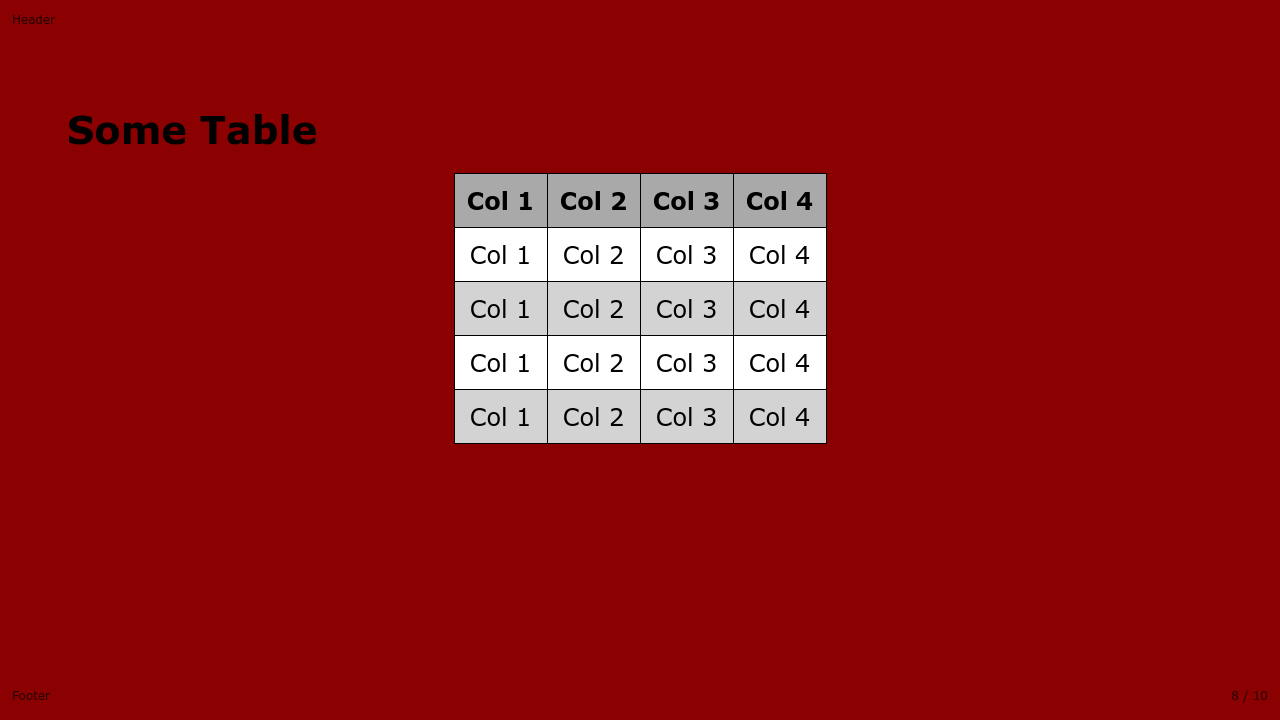
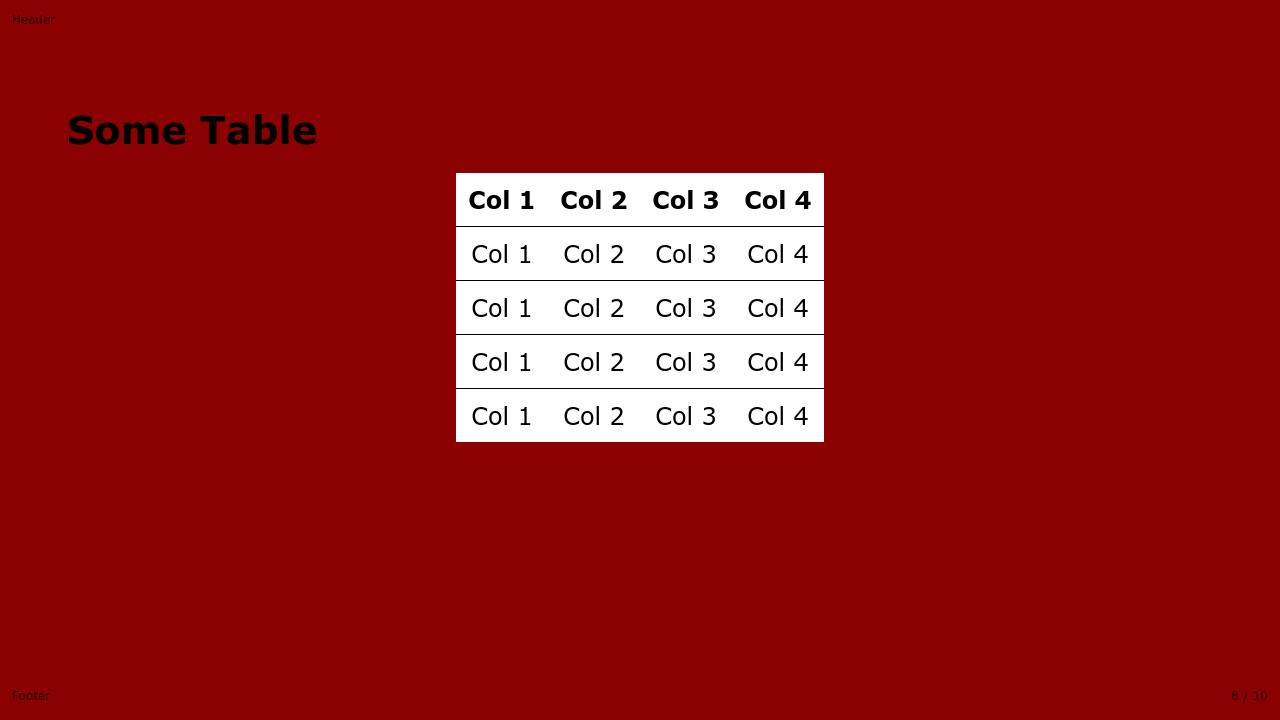
changed table style to a more lightwight look

Changed region(s): [[0.3438, 0.2139, 0.6562, 0.6417]]

diff --git a/previews/diabolo/html/slides.html b/previews/diabolo/html/slides.html
@@ -1,14 +1,14 @@
[1 lines of base64/hex data omitted]
-/* @theme diabolo */div#p>svg>foreignObject>section footer,div#p>svg>foreignObject>section header{position:absolute;left:0;right:0;margin:0}div#p>svg>foreignObject>section header{top:0;padding:12px;height:20px;font-size:12px;color:rgba(0,0,0,0.75)}div#p>svg>foreignObject>section footer{bottom:0;padding:12px;height:20px;font-size:12px;color:rgba(0,0,0,0.75)}div#p>svg>foreignObject>section{padding:67px;justify-content:center;flex-direction:column;flex-wrap:nowrap;font-family:Verdana,Geneva,Tahoma,sans-serif;font-size:1.5em;color:black;background-color:darkred}div#p>svg>foreignObject>section h1{font-size:2.5em;color:black}div#p>svg>foreignObject>section h1:first-of-type{margin-top:17%}div#p>svg>foreignObject>section h2{font-size:1.3em;color:rgba(0,0,0,0.5)}div#p>svg>foreignObject>section h1,div#p>svg>foreignObject>section h2{text-align:center}div#p>svg>foreignObject>section h3{font-size:1.6em}div#p>svg>foreignObject>section h4{font-size:1.4em}div#p>svg>foreignObject>section h5{font-size:1.2em}div#p>svg>foreignObject>section h6{font-size:1em}div#p>svg>foreignObject>section h3,div#p>svg>foreignObject>section h4,div#p>svg>foreignObject>section h5,div#p>svg>foreignObject>section h6{border-bottom:none;margin-bottom:21px}div#p>svg>foreignObject>section h1 strong,div#p>svg>foreignObject>section h2 strong,div#p>svg>foreignObject>section h3 strong,div#p>svg>foreignObject>section h4 strong,div#p>svg>foreignObject>section h5 strong,div#p>svg>foreignObject>section h6 strong{font-weight:inherit}div#p>svg>foreignObject>section hr{height:0;padding-top:0.25em}div#p>svg>foreignObject>section ol,div#p>svg>foreignObject>section ul{margin:30px;text-align:left}div#p>svg>foreignObject>section ol li,div#p>svg>foreignObject>section ul li{font-size:1.5em}div#p>svg>foreignObject>section ol li li,div#p>svg>foreignObject>section ul li li{font-size:90%}div#p>svg>foreignObject>section ul{list-style-type:square}div#p>svg>foreignObject>section img{border:1px solid black;display:block;margin-left:auto;margin-right:auto;background-color:transparent}div#p>svg>foreignObject>section a{color:blue;text-decoration:underline}div#p>svg>foreignObject>section blockquote{border-left:13px solid black;padding-left:13px;color:rgba(0,0,0,0.75)}div#p>svg>foreignObject>section table{margin-left:auto;margin-right:auto;border-collapse:collapse}div#p>svg>foreignObject>section table tr{background-color:white;border-color:black}div#p>svg>foreignObject>section table tr:nth-child(2n){background-color:lightgrey}div#p>svg>foreignObject>section table th{background-color:darkgrey}div#p>svg>foreignObject>section table td,div#p>svg>foreignObject>section table th{border:1px solid black;padding:12px}div#p>svg>foreignObject>section pre{border:1px solid black;color:black;background-color:white;padding:5px}div#p>svg>foreignObject>section:after{position:absolute;padding:12px;height:20px;color:rgba(0,0,0,0.75);font-size:12px;content:attr(data-marpit-pagination) " / " attr(data-marpit-pagination-total)}
+/* @theme diabolo */div#p>svg>foreignObject>section footer,div#p>svg>foreignObject>section header{position:absolute;left:0;right:0;margin:0}div#p>svg>foreignObject>section header{top:0;padding:12px;height:20px;font-size:12px;color:rgba(0,0,0,0.75)}div#p>svg>foreignObject>section footer{bottom:0;padding:12px;height:20px;font-size:12px;color:rgba(0,0,0,0.75)}div#p>svg>foreignObject>section{padding:67px;justify-content:center;flex-direction:column;flex-wrap:nowrap;font-family:Verdana,Geneva,Tahoma,sans-serif;font-size:1.5em;color:black;background-color:darkred}div#p>svg>foreignObject>section h1{font-size:2.5em;color:black}div#p>svg>foreignObject>section h1:first-of-type{margin-top:17%}div#p>svg>foreignObject>section h2{font-size:1.3em;color:rgba(0,0,0,0.5)}div#p>svg>foreignObject>section h1,div#p>svg>foreignObject>section h2{text-align:center}div#p>svg>foreignObject>section h3{font-size:1.6em}div#p>svg>foreignObject>section h4{font-size:1.4em}div#p>svg>foreignObject>section h5{font-size:1.2em}div#p>svg>foreignObject>section h6{font-size:1em}div#p>svg>foreignObject>section h3,div#p>svg>foreignObject>section h4,div#p>svg>foreignObject>section h5,div#p>svg>foreignObject>section h6{border-bottom:none;margin-bottom:21px}div#p>svg>foreignObject>section h1 strong,div#p>svg>foreignObject>section h2 strong,div#p>svg>foreignObject>section h3 strong,div#p>svg>foreignObject>section h4 strong,div#p>svg>foreignObject>section h5 strong,div#p>svg>foreignObject>section h6 strong{font-weight:inherit}div#p>svg>foreignObject>section hr{height:0;padding-top:0.25em}div#p>svg>foreignObject>section ol,div#p>svg>foreignObject>section ul{margin:30px;text-align:left}div#p>svg>foreignObject>section ol li,div#p>svg>foreignObject>section ul li{font-size:1.5em}div#p>svg>foreignObject>section ol li li,div#p>svg>foreignObject>section ul li li{font-size:90%}div#p>svg>foreignObject>section ul{list-style-type:square}div#p>svg>foreignObject>section img{border:1px solid black;display:block;margin-left:auto;margin-right:auto;background-color:transparent}div#p>svg>foreignObject>section a{color:blue;text-decoration:underline}div#p>svg>foreignObject>section blockquote{border-left:13px solid black;padding-left:13px;color:rgba(0,0,0,0.75)}div#p>svg>foreignObject>section table{margin-left:auto;margin-right:auto;border-collapse:collapse}div#p>svg>foreignObject>section table tr{background-color:white}div#p>svg>foreignObject>section table td,div#p>svg>foreignObject>section table th{padding:12px}div#p>svg>foreignObject>section table td{border-top:1px solid black}div#p>svg>foreignObject>section pre{border:1px solid black;color:black;background-color:white;padding:5px}div#p>svg>foreignObject>section:after{position:absolute;padding:12px;height:20px;color:rgba(0,0,0,0.75);font-size:12px;content:attr(data-marpit-pagination) " / " attr(data-marpit-pagination-total)}
 
-/* @theme vzxlnjmgoevhywdquo3zrrwygdbze0wv1pgjeb4frq */div#p>svg>foreignObject>section[data-marpit-advanced-background=background]{display:block!important;padding:0!important}div#p>svg>foreignObject>section[data-marpit-advanced-background=background]:after,div#p>svg>foreignObject>section[data-marpit-advanced-background=background]:before,div#p>svg>foreignObject>section[data-marpit-advanced-background=content]:after,div#p>svg>foreignObject>section[data-marpit-advanced-background=content]:before{display:none!important}div#p>svg>foreignObject>section[data-marpit-advanced-background=background]>div[data-marpit-advanced-background-container]{all:initial;display:flex;flex-direction:row;height:100%;overflow:hidden;width:100%}div#p>svg>foreignObject>section[data-marpit-advanced-background=background]>div[data-marpit-advanced-background-container][data-marpit-advanced-background-direction=vertical]{flex-direction:column}div#p>svg>foreignObject>section[data-marpit-advanced-background=background][data-marpit-advanced-background-split]>div[data-marpit-advanced-background-container]{width:var(--marpit-advanced-background-split,50%)}div#p>svg>foreignObject>section[data-marpit-advanced-background=background][data-marpit-advanced-background-split=right]>div[data-marpit-advanced-background-container]{margin-left:calc(100% - var(--marpit-advanced-background-split, 50%))}div#p>svg>foreignObject>section[data-marpit-advanced-background=background]>div[data-marpit-advanced-background-container]>figure{all:initial;background-position:center;background-repeat:no-repeat;background-size:cover;flex:auto;margin:0}div#p>svg>foreignObject>section[data-marpit-advanced-background=content],div#p>svg>foreignObject>section[data-marpit-advanced-background=pseudo]{background:transparent!important}div#p>svg>foreignObject>section[data-marpit-advanced-background=pseudo],div#p>svg[data-marpit-svg]>foreignObject[data-marpit-advanced-background=pseudo]{pointer-events:none!important}div#p>svg>foreignObject>section[data-marpit-advanced-background-split]{width:100%;height:100%}</style></head><body><div class="bespoke-marp-osc"><button data-bespoke-marp-osc="prev" tabindex="-1" title="Previous slide">Previous slide</button><span data-bespoke-marp-osc="page"></span><button data-bespoke-marp-osc="next" tabindex="-1" title="Next slide">Next slide</button><button data-bespoke-marp-osc="fullscreen" tabindex="-1" title="Toggle fullscreen (f)">Toggle fullscreen</button><button data-bespoke-marp-osc="presenter" tabindex="-1" title="Open presenter view (p)">Open presenter view</button></div><div id="p"><svg data-marpit-svg="" viewBox="0 0 1280 720"><foreignObject width="1280" height="720"><section id="1" data-paginate="true" data-header="Header" data-footer="Footer" data-theme="vzxlnjmgoevhywdquo3zrrwygdbze0wv1pgjeb4frq" data-marpit-pagination="1" data-marpit-pagination-total="10" style="--paginate:true;--header:Header;--footer:Footer;--theme:vzxlnjmgoevhywdquo3zrrwygdbze0wv1pgjeb4frq;">
+/* @theme j4qrkeh2r7om5itg4ce1vfoiw9zja03qgatc2cse0di */div#p>svg>foreignObject>section[data-marpit-advanced-background=background]{display:block!important;padding:0!important}div#p>svg>foreignObject>section[data-marpit-advanced-background=background]:after,div#p>svg>foreignObject>section[data-marpit-advanced-background=background]:before,div#p>svg>foreignObject>section[data-marpit-advanced-background=content]:after,div#p>svg>foreignObject>section[data-marpit-advanced-background=content]:before{display:none!important}div#p>svg>foreignObject>section[data-marpit-advanced-background=background]>div[data-marpit-advanced-background-container]{all:initial;display:flex;flex-direction:row;height:100%;overflow:hidden;width:100%}div#p>svg>foreignObject>section[data-marpit-advanced-background=background]>div[data-marpit-advanced-background-container][data-marpit-advanced-background-direction=vertical]{flex-direction:column}div#p>svg>foreignObject>section[data-marpit-advanced-background=background][data-marpit-advanced-background-split]>div[data-marpit-advanced-background-container]{width:var(--marpit-advanced-background-split,50%)}div#p>svg>foreignObject>section[data-marpit-advanced-background=background][data-marpit-advanced-background-split=right]>div[data-marpit-advanced-background-container]{margin-left:calc(100% - var(--marpit-advanced-background-split, 50%))}div#p>svg>foreignObject>section[data-marpit-advanced-background=background]>div[data-marpit-advanced-background-container]>figure{all:initial;background-position:center;background-repeat:no-repeat;background-size:cover;flex:auto;margin:0}div#p>svg>foreignObject>section[data-marpit-advanced-background=content],div#p>svg>foreignObject>section[data-marpit-advanced-background=pseudo]{background:transparent!important}div#p>svg>foreignObject>section[data-marpit-advanced-background=pseudo],div#p>svg[data-marpit-svg]>foreignObject[data-marpit-advanced-background=pseudo]{pointer-events:none!important}div#p>svg>foreignObject>section[data-marpit-advanced-background-split]{width:100%;height:100%}</style></head><body><div class="bespoke-marp-osc"><button data-bespoke-marp-osc="prev" tabindex="-1" title="Previous slide">Previous slide</button><span data-bespoke-marp-osc="page"></span><button data-bespoke-marp-osc="next" tabindex="-1" title="Next slide">Next slide</button><button data-bespoke-marp-osc="fullscreen" tabindex="-1" title="Toggle fullscreen (f)">Toggle fullscreen</button><button data-bespoke-marp-osc="presenter" tabindex="-1" title="Open presenter view (p)">Open presenter view</button></div><div id="p"><svg data-marpit-svg="" viewBox="0 0 1280 720"><foreignObject width="1280" height="720"><section id="1" data-paginate="true" data-header="Header" data-footer="Footer" data-theme="j4qrkeh2r7om5itg4ce1vfoiw9zja03qgatc2cse0di" data-marpit-pagination="1" data-marpit-pagination-total="10" style="--paginate:true;--header:Header;--footer:Footer;--theme:j4qrkeh2r7om5itg4ce1vfoiw9zja03qgatc2cse0di;">
 <header>Header</header>
 
 <h1>Some Crazy Tile of Your Presentation</h1>
 <h2>Some longer or shorter subtitle of your presentation</h2>
 <footer>Footer</footer>
 </section>
-</foreignObject></svg><svg data-marpit-svg="" viewBox="0 0 1280 720"><foreignObject width="1280" height="720"><section id="2" data-paginate="true" data-header="Header" data-footer="Footer" data-theme="vzxlnjmgoevhywdquo3zrrwygdbze0wv1pgjeb4frq" data-marpit-pagination="2" data-marpit-pagination-total="10" style="--paginate:true;--header:Header;--footer:Footer;--theme:vzxlnjmgoevhywdquo3zrrwygdbze0wv1pgjeb4frq;">
+</foreignObject></svg><svg data-marpit-svg="" viewBox="0 0 1280 720"><foreignObject width="1280" height="720"><section id="2" data-paginate="true" data-header="Header" data-footer="Footer" data-theme="j4qrkeh2r7om5itg4ce1vfoiw9zja03qgatc2cse0di" data-marpit-pagination="2" data-marpit-pagination-total="10" style="--paginate:true;--header:Header;--footer:Footer;--theme:j4qrkeh2r7om5itg4ce1vfoiw9zja03qgatc2cse0di;">
 <header>Header</header>
 <h3>h3</h3>
 <p>normal text</p>
@@ -20,7 +20,7 @@
 <p>normal text</p>
 <footer>Footer</footer>
 </section>
-</foreignObject></svg><svg data-marpit-svg="" viewBox="0 0 1280 720"><foreignObject width="1280" height="720"><section id="3" data-marpit-fragments="5" data-paginate="true" data-header="Header" data-footer="Footer" data-theme="vzxlnjmgoevhywdquo3zrrwygdbze0wv1pgjeb4frq" data-marpit-pagination="3" data-marpit-pagination-total="10" style="--paginate:true;--header:Header;--footer:Footer;--theme:vzxlnjmgoevhywdquo3zrrwygdbze0wv1pgjeb4frq;">
+</foreignObject></svg><svg data-marpit-svg="" viewBox="0 0 1280 720"><foreignObject width="1280" height="720"><section id="3" data-marpit-fragments="5" data-paginate="true" data-header="Header" data-footer="Footer" data-theme="j4qrkeh2r7om5itg4ce1vfoiw9zja03qgatc2cse0di" data-marpit-pagination="3" data-marpit-pagination-total="10" style="--paginate:true;--header:Header;--footer:Footer;--theme:j4qrkeh2r7om5itg4ce1vfoiw9zja03qgatc2cse0di;">
 <header>Header</header>
 <h3>Some Itemization</h3>
 <ul>
@@ -44,7 +44,7 @@
 </ul>
 <footer>Footer</footer>
 </section>
-</foreignObject></svg><svg data-marpit-svg="" viewBox="0 0 1280 720"><foreignObject width="1280" height="720"><section id="4" data-paginate="true" data-header="Header" data-footer="Footer" data-theme="vzxlnjmgoevhywdquo3zrrwygdbze0wv1pgjeb4frq" data-marpit-pagination="4" data-marpit-pagination-total="10" style="--paginate:true;--header:Header;--footer:Footer;--theme:vzxlnjmgoevhywdquo3zrrwygdbze0wv1pgjeb4frq;">
+</foreignObject></svg><svg data-marpit-svg="" viewBox="0 0 1280 720"><foreignObject width="1280" height="720"><section id="4" data-paginate="true" data-header="Header" data-footer="Footer" data-theme="j4qrkeh2r7om5itg4ce1vfoiw9zja03qgatc2cse0di" data-marpit-pagination="4" data-marpit-pagination-total="10" style="--paginate:true;--header:Header;--footer:Footer;--theme:j4qrkeh2r7om5itg4ce1vfoiw9zja03qgatc2cse0di;">
 <header>Header</header>
 <h3>Some Enumeration</h3>
 <ol>
@@ -68,19 +68,19 @@
 </ol>
 <footer>Footer</footer>
 </section>
-</foreignObject></svg><svg data-marpit-svg="" viewBox="0 0 1280 720"><foreignObject width="1280" height="720"><section id="5" data-paginate="true" data-header="Header" data-footer="Footer" data-theme="vzxlnjmgoevhywdquo3zrrwygdbze0wv1pgjeb4frq" data-marpit-pagination="5" data-marpit-pagination-total="10" style="--paginate:true;--header:Header;--footer:Footer;--theme:vzxlnjmgoevhywdquo3zrrwygdbze0wv1pgjeb4frq;">
+</foreignObject></svg><svg data-marpit-svg="" viewBox="0 0 1280 720"><foreignObject width="1280" height="720"><section id="5" data-paginate="true" data-header="Header" data-footer="Footer" data-theme="j4qrkeh2r7om5itg4ce1vfoiw9zja03qgatc2cse0di" data-marpit-pagination="5" data-marpit-pagination-total="10" style="--paginate:true;--header:Header;--footer:Footer;--theme:j4qrkeh2r7om5itg4ce1vfoiw9zja03qgatc2cse0di;">
 <header>Header</header>
 <h3>Some Link</h3>
 <p><a href="https://google.com">Link</a></p>
 <footer>Footer</footer>
 </section>
-</foreignObject></svg><svg data-marpit-svg="" viewBox="0 0 1280 720"><foreignObject width="1280" height="720"><section id="6" data-paginate="true" data-header="Header" data-footer="Footer" data-theme="vzxlnjmgoevhywdquo3zrrwygdbze0wv1pgjeb4frq" data-marpit-pagination="6" data-marpit-pagination-total="10" style="--paginate:true;--header:Header;--footer:Footer;--theme:vzxlnjmgoevhywdquo3zrrwygdbze0wv1pgjeb4frq;">
+</foreignObject></svg><svg data-marpit-svg="" viewBox="0 0 1280 720"><foreignObject width="1280" height="720"><section id="6" data-paginate="true" data-header="Header" data-footer="Footer" data-theme="j4qrkeh2r7om5itg4ce1vfoiw9zja03qgatc2cse0di" data-marpit-pagination="6" data-marpit-pagination-total="10" style="--paginate:true;--header:Header;--footer:Footer;--theme:j4qrkeh2r7om5itg4ce1vfoiw9zja03qgatc2cse0di;">
 <header>Header</header>
 <h3>Some Image</h3>
 <p><img src="./image.png" alt="width:500px" style="width:500px;" /></p>
 <footer>Footer</footer>
 </section>
-</foreignObject></svg><svg data-marpit-svg="" viewBox="0 0 1280 720"><foreignObject width="1280" height="720"><section id="7" data-paginate="true" data-header="Header" data-footer="Footer" data-theme="vzxlnjmgoevhywdquo3zrrwygdbze0wv1pgjeb4frq" data-marpit-pagination="7" data-marpit-pagination-total="10" style="--paginate:true;--header:Header;--footer:Footer;--theme:vzxlnjmgoevhywdquo3zrrwygdbze0wv1pgjeb4frq;">
+</foreignObject></svg><svg data-marpit-svg="" viewBox="0 0 1280 720"><foreignObject width="1280" height="720"><section id="7" data-paginate="true" data-header="Header" data-footer="Footer" data-theme="j4qrkeh2r7om5itg4ce1vfoiw9zja03qgatc2cse0di" data-marpit-pagination="7" data-marpit-pagination-total="10" style="--paginate:true;--header:Header;--footer:Footer;--theme:j4qrkeh2r7om5itg4ce1vfoiw9zja03qgatc2cse0di;">
 <header>Header</header>
 <h3>Some Blockquotes</h3>
 <blockquote>
@@ -91,7 +91,7 @@
 </blockquote>
 <footer>Footer</footer>
 </section>
-</foreignObject></svg><svg data-marpit-svg="" viewBox="0 0 1280 720"><foreignObject width="1280" height="720"><section id="8" data-paginate="true" data-header="Header" data-footer="Footer" data-theme="vzxlnjmgoevhywdquo3zrrwygdbze0wv1pgjeb4frq" data-marpit-pagination="8" data-marpit-pagination-total="10" style="--paginate:true;--header:Header;--footer:Footer;--theme:vzxlnjmgoevhywdquo3zrrwygdbze0wv1pgjeb4frq;">
+</foreignObject></svg><svg data-marpit-svg="" viewBox="0 0 1280 720"><foreignObject width="1280" height="720"><section id="8" data-paginate="true" data-header="Header" data-footer="Footer" data-theme="j4qrkeh2r7om5itg4ce1vfoiw9zja03qgatc2cse0di" data-marpit-pagination="8" data-marpit-pagination-total="10" style="--paginate:true;--header:Header;--footer:Footer;--theme:j4qrkeh2r7om5itg4ce1vfoiw9zja03qgatc2cse0di;">
 <header>Header</header>
 <h3>Some Table</h3>
 <table>
@@ -132,13 +132,13 @@
 </table>
 <footer>Footer</footer>
 </section>
-</foreignObject></svg><svg data-marpit-svg="" viewBox="0 0 1280 720"><foreignObject width="1280" height="720"><section id="9" data-paginate="true" data-header="Header" data-footer="Footer" data-theme="vzxlnjmgoevhywdquo3zrrwygdbze0wv1pgjeb4frq" data-marpit-pagination="9" data-marpit-pagination-total="10" style="--paginate:true;--header:Header;--footer:Footer;--theme:vzxlnjmgoevhywdquo3zrrwygdbze0wv1pgjeb4frq;">
+</foreignObject></svg><svg data-marpit-svg="" viewBox="0 0 1280 720"><foreignObject width="1280" height="720"><section id="9" data-paginate="true" data-header="Header" data-footer="Footer" data-theme="j4qrkeh2r7om5itg4ce1vfoiw9zja03qgatc2cse0di" data-marpit-pagination="9" data-marpit-pagination-total="10" style="--paginate:true;--header:Header;--footer:Footer;--theme:j4qrkeh2r7om5itg4ce1vfoiw9zja03qgatc2cse0di;">
 <header>Header</header>
 <h3>Some Inline Code</h3>
 <p><code>Inline code</code> with backticks</p>
 <footer>Footer</footer>
 </section>
-</foreignObject></svg><svg data-marpit-svg="" viewBox="0 0 1280 720"><foreignObject width="1280" height="720"><section id="10" data-paginate="true" data-header="Header" data-footer="Footer" data-theme="vzxlnjmgoevhywdquo3zrrwygdbze0wv1pgjeb4frq" data-marpit-pagination="10" data-marpit-pagination-total="10" style="--paginate:true;--header:Header;--footer:Footer;--theme:vzxlnjmgoevhywdquo3zrrwygdbze0wv1pgjeb4frq;">
+</foreignObject></svg><svg data-marpit-svg="" viewBox="0 0 1280 720"><foreignObject width="1280" height="720"><section id="10" data-paginate="true" data-header="Header" data-footer="Footer" data-theme="j4qrkeh2r7om5itg4ce1vfoiw9zja03qgatc2cse0di" data-marpit-pagination="10" data-marpit-pagination-total="10" style="--paginate:true;--header:Header;--footer:Footer;--theme:j4qrkeh2r7om5itg4ce1vfoiw9zja03qgatc2cse0di;">
 <header>Header</header>
 <h3>Some Code Block</h3>
 <pre><code class="language-c#"><span class="hljs-keyword">using</span> System;

diff --git a/previews/minimal/html/slides.html b/previews/minimal/html/slides.html
@@ -1,14 +1,14 @@
[1 lines of base64/hex data omitted]
-/* @theme minimal */div#p>svg>foreignObject>section footer,div#p>svg>foreignObject>section header{position:absolute;left:0;right:0;margin:0}div#p>svg>foreignObject>section header{top:0;padding:12px;height:20px;font-size:12px;color:rgba(0,0,0,0.75)}div#p>svg>foreignObject>section footer{bottom:0;padding:12px;height:20px;font-size:12px;color:rgba(0,0,0,0.75)}div#p>svg>foreignObject>section{padding:67px;justify-content:center;flex-direction:column;flex-wrap:nowrap;font-family:Verdana,Geneva,Tahoma,sans-serif;font-size:1.5em;color:black;background-color:white}div#p>svg>foreignObject>section h1{font-size:2.5em;color:black}div#p>svg>foreignObject>section h1:first-of-type{margin-top:17%}div#p>svg>foreignObject>section h2{font-size:1.3em;color:rgba(0,0,0,0.5)}div#p>svg>foreignObject>section h1,div#p>svg>foreignObject>section h2{text-align:center}div#p>svg>foreignObject>section h3{font-size:1.6em}div#p>svg>foreignObject>section h4{font-size:1.4em}div#p>svg>foreignObject>section h5{font-size:1.2em}div#p>svg>foreignObject>section h6{font-size:1em}div#p>svg>foreignObject>section h3,div#p>svg>foreignObject>section h4,div#p>svg>foreignObject>section h5,div#p>svg>foreignObject>section h6{border-bottom:none;margin-bottom:21px}div#p>svg>foreignObject>section h1 strong,div#p>svg>foreignObject>section h2 strong,div#p>svg>foreignObject>section h3 strong,div#p>svg>foreignObject>section h4 strong,div#p>svg>foreignObject>section h5 strong,div#p>svg>foreignObject>section h6 strong{font-weight:inherit}div#p>svg>foreignObject>section hr{height:0;padding-top:0.25em}div#p>svg>foreignObject>section ol,div#p>svg>foreignObject>section ul{margin:30px;text-align:left}div#p>svg>foreignObject>section ol li,div#p>svg>foreignObject>section ul li{font-size:1.5em}div#p>svg>foreignObject>section ol li li,div#p>svg>foreignObject>section ul li li{font-size:90%}div#p>svg>foreignObject>section ul{list-style-type:square}div#p>svg>foreignObject>section img{border:1px solid black;display:block;margin-left:auto;margin-right:auto;background-color:transparent}div#p>svg>foreignObject>section a{color:blue;text-decoration:underline}div#p>svg>foreignObject>section blockquote{border-left:13px solid black;padding-left:13px;color:rgba(0,0,0,0.75)}div#p>svg>foreignObject>section table{margin-left:auto;margin-right:auto;border-collapse:collapse}div#p>svg>foreignObject>section table tr{background-color:white;border-color:black}div#p>svg>foreignObject>section table tr:nth-child(2n){background-color:lightgrey}div#p>svg>foreignObject>section table th{background-color:darkgrey}div#p>svg>foreignObject>section table td,div#p>svg>foreignObject>section table th{border:1px solid black;padding:12px}div#p>svg>foreignObject>section pre{border:1px solid black;color:black;background-color:white;padding:5px}div#p>svg>foreignObject>section:after{position:absolute;padding:12px;height:20px;color:rgba(0,0,0,0.75);font-size:12px;content:attr(data-marpit-pagination) " / " attr(data-marpit-pagination-total)}
+/* @theme minimal */div#p>svg>foreignObject>section footer,div#p>svg>foreignObject>section header{position:absolute;left:0;right:0;margin:0}div#p>svg>foreignObject>section header{top:0;padding:12px;height:20px;font-size:12px;color:rgba(0,0,0,0.75)}div#p>svg>foreignObject>section footer{bottom:0;padding:12px;height:20px;font-size:12px;color:rgba(0,0,0,0.75)}div#p>svg>foreignObject>section{padding:67px;justify-content:center;flex-direction:column;flex-wrap:nowrap;font-family:Verdana,Geneva,Tahoma,sans-serif;font-size:1.5em;color:black;background-color:white}div#p>svg>foreignObject>section h1{font-size:2.5em;color:black}div#p>svg>foreignObject>section h1:first-of-type{margin-top:17%}div#p>svg>foreignObject>section h2{font-size:1.3em;color:rgba(0,0,0,0.5)}div#p>svg>foreignObject>section h1,div#p>svg>foreignObject>section h2{text-align:center}div#p>svg>foreignObject>section h3{font-size:1.6em}div#p>svg>foreignObject>section h4{font-size:1.4em}div#p>svg>foreignObject>section h5{font-size:1.2em}div#p>svg>foreignObject>section h6{font-size:1em}div#p>svg>foreignObject>section h3,div#p>svg>foreignObject>section h4,div#p>svg>foreignObject>section h5,div#p>svg>foreignObject>section h6{border-bottom:none;margin-bottom:21px}div#p>svg>foreignObject>section h1 strong,div#p>svg>foreignObject>section h2 strong,div#p>svg>foreignObject>section h3 strong,div#p>svg>foreignObject>section h4 strong,div#p>svg>foreignObject>section h5 strong,div#p>svg>foreignObject>section h6 strong{font-weight:inherit}div#p>svg>foreignObject>section hr{height:0;padding-top:0.25em}div#p>svg>foreignObject>section ol,div#p>svg>foreignObject>section ul{margin:30px;text-align:left}div#p>svg>foreignObject>section ol li,div#p>svg>foreignObject>section ul li{font-size:1.5em}div#p>svg>foreignObject>section ol li li,div#p>svg>foreignObject>section ul li li{font-size:90%}div#p>svg>foreignObject>section ul{list-style-type:square}div#p>svg>foreignObject>section img{border:1px solid black;display:block;margin-left:auto;margin-right:auto;background-color:transparent}div#p>svg>foreignObject>section a{color:blue;text-decoration:underline}div#p>svg>foreignObject>section blockquote{border-left:13px solid black;padding-left:13px;color:rgba(0,0,0,0.75)}div#p>svg>foreignObject>section table{margin-left:auto;margin-right:auto;border-collapse:collapse}div#p>svg>foreignObject>section table tr{background-color:white}div#p>svg>foreignObject>section table td,div#p>svg>foreignObject>section table th{padding:12px}div#p>svg>foreignObject>section table td{border-top:1px solid black}div#p>svg>foreignObject>section pre{border:1px solid black;color:black;background-color:white;padding:5px}div#p>svg>foreignObject>section:after{position:absolute;padding:12px;height:20px;color:rgba(0,0,0,0.75);font-size:12px;content:attr(data-marpit-pagination) " / " attr(data-marpit-pagination-total)}
 
-/* @theme fs2zdtmi8rrtlf1qw4xurb9yd6ar775ffdelihq99 */div#p>svg>foreignObject>section[data-marpit-advanced-background=background]{display:block!important;padding:0!important}div#p>svg>foreignObject>section[data-marpit-advanced-background=background]:after,div#p>svg>foreignObject>section[data-marpit-advanced-background=background]:before,div#p>svg>foreignObject>section[data-marpit-advanced-background=content]:after,div#p>svg>foreignObject>section[data-marpit-advanced-background=content]:before{display:none!important}div#p>svg>foreignObject>section[data-marpit-advanced-background=background]>div[data-marpit-advanced-background-container]{all:initial;display:flex;flex-direction:row;height:100%;overflow:hidden;width:100%}div#p>svg>foreignObject>section[data-marpit-advanced-background=background]>div[data-marpit-advanced-background-container][data-marpit-advanced-background-direction=vertical]{flex-direction:column}div#p>svg>foreignObject>section[data-marpit-advanced-background=background][data-marpit-advanced-background-split]>div[data-marpit-advanced-background-container]{width:var(--marpit-advanced-background-split,50%)}div#p>svg>foreignObject>section[data-marpit-advanced-background=background][data-marpit-advanced-background-split=right]>div[data-marpit-advanced-background-container]{margin-left:calc(100% - var(--marpit-advanced-background-split, 50%))}div#p>svg>foreignObject>section[data-marpit-advanced-background=background]>div[data-marpit-advanced-background-container]>figure{all:initial;background-position:center;background-repeat:no-repeat;background-size:cover;flex:auto;margin:0}div#p>svg>foreignObject>section[data-marpit-advanced-background=content],div#p>svg>foreignObject>section[data-marpit-advanced-background=pseudo]{background:transparent!important}div#p>svg>foreignObject>section[data-marpit-advanced-background=pseudo],div#p>svg[data-marpit-svg]>foreignObject[data-marpit-advanced-background=pseudo]{pointer-events:none!important}div#p>svg>foreignObject>section[data-marpit-advanced-background-split]{width:100%;height:100%}</style></head><body><div class="bespoke-marp-osc"><button data-bespoke-marp-osc="prev" tabindex="-1" title="Previous slide">Previous slide</button><span data-bespoke-marp-osc="page"></span><button data-bespoke-marp-osc="next" tabindex="-1" title="Next slide">Next slide</button><button data-bespoke-marp-osc="fullscreen" tabindex="-1" title="Toggle fullscreen (f)">Toggle fullscreen</button><button data-bespoke-marp-osc="presenter" tabindex="-1" title="Open presenter view (p)">Open presenter view</button></div><div id="p"><svg data-marpit-svg="" viewBox="0 0 1280 720"><foreignObject width="1280" height="720"><section id="1" data-paginate="true" data-header="Header" data-footer="Footer" data-theme="fs2zdtmi8rrtlf1qw4xurb9yd6ar775ffdelihq99" data-marpit-pagination="1" data-marpit-pagination-total="10" style="--paginate:true;--header:Header;--footer:Footer;--theme:fs2zdtmi8rrtlf1qw4xurb9yd6ar775ffdelihq99;">
+/* @theme lhseac4lzdd5x47gwzcfkcscnfls5z9qmvstavbmkrb */div#p>svg>foreignObject>section[data-marpit-advanced-background=background]{display:block!important;padding:0!important}div#p>svg>foreignObject>section[data-marpit-advanced-background=background]:after,div#p>svg>foreignObject>section[data-marpit-advanced-background=background]:before,div#p>svg>foreignObject>section[data-marpit-advanced-background=content]:after,div#p>svg>foreignObject>section[data-marpit-advanced-background=content]:before{display:none!important}div#p>svg>foreignObject>section[data-marpit-advanced-background=background]>div[data-marpit-advanced-background-container]{all:initial;display:flex;flex-direction:row;height:100%;overflow:hidden;width:100%}div#p>svg>foreignObject>section[data-marpit-advanced-background=background]>div[data-marpit-advanced-background-container][data-marpit-advanced-background-direction=vertical]{flex-direction:column}div#p>svg>foreignObject>section[data-marpit-advanced-background=background][data-marpit-advanced-background-split]>div[data-marpit-advanced-background-container]{width:var(--marpit-advanced-background-split,50%)}div#p>svg>foreignObject>section[data-marpit-advanced-background=background][data-marpit-advanced-background-split=right]>div[data-marpit-advanced-background-container]{margin-left:calc(100% - var(--marpit-advanced-background-split, 50%))}div#p>svg>foreignObject>section[data-marpit-advanced-background=background]>div[data-marpit-advanced-background-container]>figure{all:initial;background-position:center;background-repeat:no-repeat;background-size:cover;flex:auto;margin:0}div#p>svg>foreignObject>section[data-marpit-advanced-background=content],div#p>svg>foreignObject>section[data-marpit-advanced-background=pseudo]{background:transparent!important}div#p>svg>foreignObject>section[data-marpit-advanced-background=pseudo],div#p>svg[data-marpit-svg]>foreignObject[data-marpit-advanced-background=pseudo]{pointer-events:none!important}div#p>svg>foreignObject>section[data-marpit-advanced-background-split]{width:100%;height:100%}</style></head><body><div class="bespoke-marp-osc"><button data-bespoke-marp-osc="prev" tabindex="-1" title="Previous slide">Previous slide</button><span data-bespoke-marp-osc="page"></span><button data-bespoke-marp-osc="next" tabindex="-1" title="Next slide">Next slide</button><button data-bespoke-marp-osc="fullscreen" tabindex="-1" title="Toggle fullscreen (f)">Toggle fullscreen</button><button data-bespoke-marp-osc="presenter" tabindex="-1" title="Open presenter view (p)">Open presenter view</button></div><div id="p"><svg data-marpit-svg="" viewBox="0 0 1280 720"><foreignObject width="1280" height="720"><section id="1" data-paginate="true" data-header="Header" data-footer="Footer" data-theme="lhseac4lzdd5x47gwzcfkcscnfls5z9qmvstavbmkrb" data-marpit-pagination="1" data-marpit-pagination-total="10" style="--paginate:true;--header:Header;--footer:Footer;--theme:lhseac4lzdd5x47gwzcfkcscnfls5z9qmvstavbmkrb;">
 <header>Header</header>
 
 <h1>Some Crazy Tile of Your Presentation</h1>
 <h2>Some longer or shorter subtitle of your presentation</h2>
 <footer>Footer</footer>
 </section>
-</foreignObject></svg><svg data-marpit-svg="" viewBox="0 0 1280 720"><foreignObject width="1280" height="720"><section id="2" data-paginate="true" data-header="Header" data-footer="Footer" data-theme="fs2zdtmi8rrtlf1qw4xurb9yd6ar775ffdelihq99" data-marpit-pagination="2" data-marpit-pagination-total="10" style="--paginate:true;--header:Header;--footer:Footer;--theme:fs2zdtmi8rrtlf1qw4xurb9yd6ar775ffdelihq99;">
+</foreignObject></svg><svg data-marpit-svg="" viewBox="0 0 1280 720"><foreignObject width="1280" height="720"><section id="2" data-paginate="true" data-header="Header" data-footer="Footer" data-theme="lhseac4lzdd5x47gwzcfkcscnfls5z9qmvstavbmkrb" data-marpit-pagination="2" data-marpit-pagination-total="10" style="--paginate:true;--header:Header;--footer:Footer;--theme:lhseac4lzdd5x47gwzcfkcscnfls5z9qmvstavbmkrb;">
 <header>Header</header>
 <h3>h3</h3>
 <p>normal text</p>
@@ -20,7 +20,7 @@
 <p>normal text</p>
 <footer>Footer</footer>
 </section>
-</foreignObject></svg><svg data-marpit-svg="" viewBox="0 0 1280 720"><foreignObject width="1280" height="720"><section id="3" data-marpit-fragments="5" data-paginate="true" data-header="Header" data-footer="Footer" data-theme="fs2zdtmi8rrtlf1qw4xurb9yd6ar775ffdelihq99" data-marpit-pagination="3" data-marpit-pagination-total="10" style="--paginate:true;--header:Header;--footer:Footer;--theme:fs2zdtmi8rrtlf1qw4xurb9yd6ar775ffdelihq99;">
+</foreignObject></svg><svg data-marpit-svg="" viewBox="0 0 1280 720"><foreignObject width="1280" height="720"><section id="3" data-marpit-fragments="5" data-paginate="true" data-header="Header" data-footer="Footer" data-theme="lhseac4lzdd5x47gwzcfkcscnfls5z9qmvstavbmkrb" data-marpit-pagination="3" data-marpit-pagination-total="10" style="--paginate:true;--header:Header;--footer:Footer;--theme:lhseac4lzdd5x47gwzcfkcscnfls5z9qmvstavbmkrb;">
 <header>Header</header>
 <h3>Some Itemization</h3>
 <ul>
@@ -44,7 +44,7 @@
 </ul>
 <footer>Footer</footer>
 </section>
-</foreignObject></svg><svg data-marpit-svg="" viewBox="0 0 1280 720"><foreignObject width="1280" height="720"><section id="4" data-paginate="true" data-header="Header" data-footer="Footer" data-theme="fs2zdtmi8rrtlf1qw4xurb9yd6ar775ffdelihq99" data-marpit-pagination="4" data-marpit-pagination-total="10" style="--paginate:true;--header:Header;--footer:Footer;--theme:fs2zdtmi8rrtlf1qw4xurb9yd6ar775ffdelihq99;">
+</foreignObject></svg><svg data-marpit-svg="" viewBox="0 0 1280 720"><foreignObject width="1280" height="720"><section id="4" data-paginate="true" data-header="Header" data-footer="Footer" data-theme="lhseac4lzdd5x47gwzcfkcscnfls5z9qmvstavbmkrb" data-marpit-pagination="4" data-marpit-pagination-total="10" style="--paginate:true;--header:Header;--footer:Footer;--theme:lhseac4lzdd5x47gwzcfkcscnfls5z9qmvstavbmkrb;">
 <header>Header</header>
 <h3>Some Enumeration</h3>
 <ol>
@@ -68,19 +68,19 @@
 </ol>
 <footer>Footer</footer>
 </section>
-</foreignObject></svg><svg data-marpit-svg="" viewBox="0 0 1280 720"><foreignObject width="1280" height="720"><section id="5" data-paginate="true" data-header="Header" data-footer="Footer" data-theme="fs2zdtmi8rrtlf1qw4xurb9yd6ar775ffdelihq99" data-marpit-pagination="5" data-marpit-pagination-total="10" style="--paginate:true;--header:Header;--footer:Footer;--theme:fs2zdtmi8rrtlf1qw4xurb9yd6ar775ffdelihq99;">
+</foreignObject></svg><svg data-marpit-svg="" viewBox="0 0 1280 720"><foreignObject width="1280" height="720"><section id="5" data-paginate="true" data-header="Header" data-footer="Footer" data-theme="lhseac4lzdd5x47gwzcfkcscnfls5z9qmvstavbmkrb" data-marpit-pagination="5" data-marpit-pagination-total="10" style="--paginate:true;--header:Header;--footer:Footer;--theme:lhseac4lzdd5x47gwzcfkcscnfls5z9qmvstavbmkrb;">
 <header>Header</header>
 <h3>Some Link</h3>
 <p><a href="https://google.com">Link</a></p>
 <footer>Footer</footer>
 </section>
-</foreignObject></svg><svg data-marpit-svg="" viewBox="0 0 1280 720"><foreignObject width="1280" height="720"><section id="6" data-paginate="true" data-header="Header" data-footer="Footer" data-theme="fs2zdtmi8rrtlf1qw4xurb9yd6ar775ffdelihq99" data-marpit-pagination="6" data-marpit-pagination-total="10" style="--paginate:true;--header:Header;--footer:Footer;--theme:fs2zdtmi8rrtlf1qw4xurb9yd6ar775ffdelihq99;">
+</foreignObject></svg><svg data-marpit-svg="" viewBox="0 0 1280 720"><foreignObject width="1280" height="720"><section id="6" data-paginate="true" data-header="Header" data-footer="Footer" data-theme="lhseac4lzdd5x47gwzcfkcscnfls5z9qmvstavbmkrb" data-marpit-pagination="6" data-marpit-pagination-total="10" style="--paginate:true;--header:Header;--footer:Footer;--theme:lhseac4lzdd5x47gwzcfkcscnfls5z9qmvstavbmkrb;">
 <header>Header</header>
 <h3>Some Image</h3>
 <p><img src="./image.png" alt="width:500px" style="width:500px;" /></p>
 <footer>Footer</footer>
 </section>
-</foreignObject></svg><svg data-marpit-svg="" viewBox="0 0 1280 720"><foreignObject width="1280" height="720"><section id="7" data-paginate="true" data-header="Header" data-footer="Footer" data-theme="fs2zdtmi8rrtlf1qw4xurb9yd6ar775ffdelihq99" data-marpit-pagination="7" data-marpit-pagination-total="10" style="--paginate:true;--header:Header;--footer:Footer;--theme:fs2zdtmi8rrtlf1qw4xurb9yd6ar775ffdelihq99;">
+</foreignObject></svg><svg data-marpit-svg="" viewBox="0 0 1280 720"><foreignObject width="1280" height="720"><section id="7" data-paginate="true" data-header="Header" data-footer="Footer" data-theme="lhseac4lzdd5x47gwzcfkcscnfls5z9qmvstavbmkrb" data-marpit-pagination="7" data-marpit-pagination-total="10" style="--paginate:true;--header:Header;--footer:Footer;--theme:lhseac4lzdd5x47gwzcfkcscnfls5z9qmvstavbmkrb;">
 <header>Header</header>
 <h3>Some Blockquotes</h3>
 <blockquote>
@@ -91,7 +91,7 @@
 </blockquote>
 <footer>Footer</footer>
 </section>
-</foreignObject></svg><svg data-marpit-svg="" viewBox="0 0 1280 720"><foreignObject width="1280" height="720"><section id="8" data-paginate="true" data-header="Header" data-footer="Footer" data-theme="fs2zdtmi8rrtlf1qw4xurb9yd6ar775ffdelihq99" data-marpit-pagination="8" data-marpit-pagination-total="10" style="--paginate:true;--header:Header;--footer:Footer;--theme:fs2zdtmi8rrtlf1qw4xurb9yd6ar775ffdelihq99;">
+</foreignObject></svg><svg data-marpit-svg="" viewBox="0 0 1280 720"><foreignObject width="1280" height="720"><section id="8" data-paginate="true" data-header="Header" data-footer="Footer" data-theme="lhseac4lzdd5x47gwzcfkcscnfls5z9qmvstavbmkrb" data-marpit-pagination="8" data-marpit-pagination-total="10" style="--paginate:true;--header:Header;--footer:Footer;--theme:lhseac4lzdd5x47gwzcfkcscnfls5z9qmvstavbmkrb;">
 <header>Header</header>
 <h3>Some Table</h3>
 <table>
@@ -132,13 +132,13 @@
 </table>
 <footer>Footer</footer>
 </section>
-</foreignObject></svg><svg data-marpit-svg="" viewBox="0 0 1280 720"><foreignObject width="1280" height="720"><section id="9" data-paginate="true" data-header="Header" data-footer="Footer" data-theme="fs2zdtmi8rrtlf1qw4xurb9yd6ar775ffdelihq99" data-marpit-pagination="9" data-marpit-pagination-total="10" style="--paginate:true;--header:Header;--footer:Footer;--theme:fs2zdtmi8rrtlf1qw4xurb9yd6ar775ffdelihq99;">
+</foreignObject></svg><svg data-marpit-svg="" viewBox="0 0 1280 720"><foreignObject width="1280" height="720"><section id="9" data-paginate="true" data-header="Header" data-footer="Footer" data-theme="lhseac4lzdd5x47gwzcfkcscnfls5z9qmvstavbmkrb" data-marpit-pagination="9" data-marpit-pagination-total="10" style="--paginate:true;--header:Header;--footer:Footer;--theme:lhseac4lzdd5x47gwzcfkcscnfls5z9qmvstavbmkrb;">
 <header>Header</header>
 <h3>Some Inline Code</h3>
 <p><code>Inline code</code> with backticks</p>
 <footer>Footer</footer>
 </section>
-</foreignObject></svg><svg data-marpit-svg="" viewBox="0 0 1280 720"><foreignObject width="1280" height="720"><section id="10" data-paginate="true" data-header="Header" data-footer="Footer" data-theme="fs2zdtmi8rrtlf1qw4xurb9yd6ar775ffdelihq99" data-marpit-pagination="10" data-marpit-pagination-total="10" style="--paginate:true;--header:Header;--footer:Footer;--theme:fs2zdtmi8rrtlf1qw4xurb9yd6ar775ffdelihq99;">
+</foreignObject></svg><svg data-marpit-svg="" viewBox="0 0 1280 720"><foreignObject width="1280" height="720"><section id="10" data-paginate="true" data-header="Header" data-footer="Footer" data-theme="lhseac4lzdd5x47gwzcfkcscnfls5z9qmvstavbmkrb" data-marpit-pagination="10" data-marpit-pagination-total="10" style="--paginate:true;--header:Header;--footer:Footer;--theme:lhseac4lzdd5x47gwzcfkcscnfls5z9qmvstavbmkrb;">
 <header>Header</header>
 <h3>Some Code Block</h3>
 <pre><code class="language-c#"><span class="hljs-keyword">using</span> System;

diff --git a/src/base/table.scss b/src/base/table.scss
@@ -7,20 +7,15 @@ section {
 
     tr {
       background-color: $table-row-background-color;
-      border-color: $slide-text-color;
-      &:nth-child(2n) {
-        background-color: $table-second-row-background-color;
-      }
-    }
-
-    th {
-      background-color: $table-header-background-color;
     }
 
     th,
-    td {
-      border: $table-border-size $table-border-style $table-border-color;
+    td {     
       padding: $table-cell-padding;
+    }
+
+    td {
+      border-top: 1px solid $table-border-color;
     }
   }
 }

diff --git a/themes/diabolo.css b/themes/diabolo.css
@@ -125,18 +125,13 @@ section table {
 }
 section table tr {
   background-color: white;
-  border-color: black;
-}
-section table tr:nth-child(2n) {
-  background-color: lightgrey;
-}
-section table th {
-  background-color: darkgrey;
 }
 section table th,
 section table td {
-  border: 1px solid black;
   padding: 12px;
+}
+section table td {
+  border-top: 1px solid black;
 }
 
 section pre {

diff --git a/themes/minimal.css b/themes/minimal.css
@@ -125,18 +125,13 @@ section table {
 }
 section table tr {
   background-color: white;
-  border-color: black;
-}
-section table tr:nth-child(2n) {
-  background-color: lightgrey;
-}
-section table th {
-  background-color: darkgrey;
 }
 section table th,
 section table td {
-  border: 1px solid black;
   padding: 12px;
+}
+section table td {
+  border-top: 1px solid black;
 }
 
 section pre {
